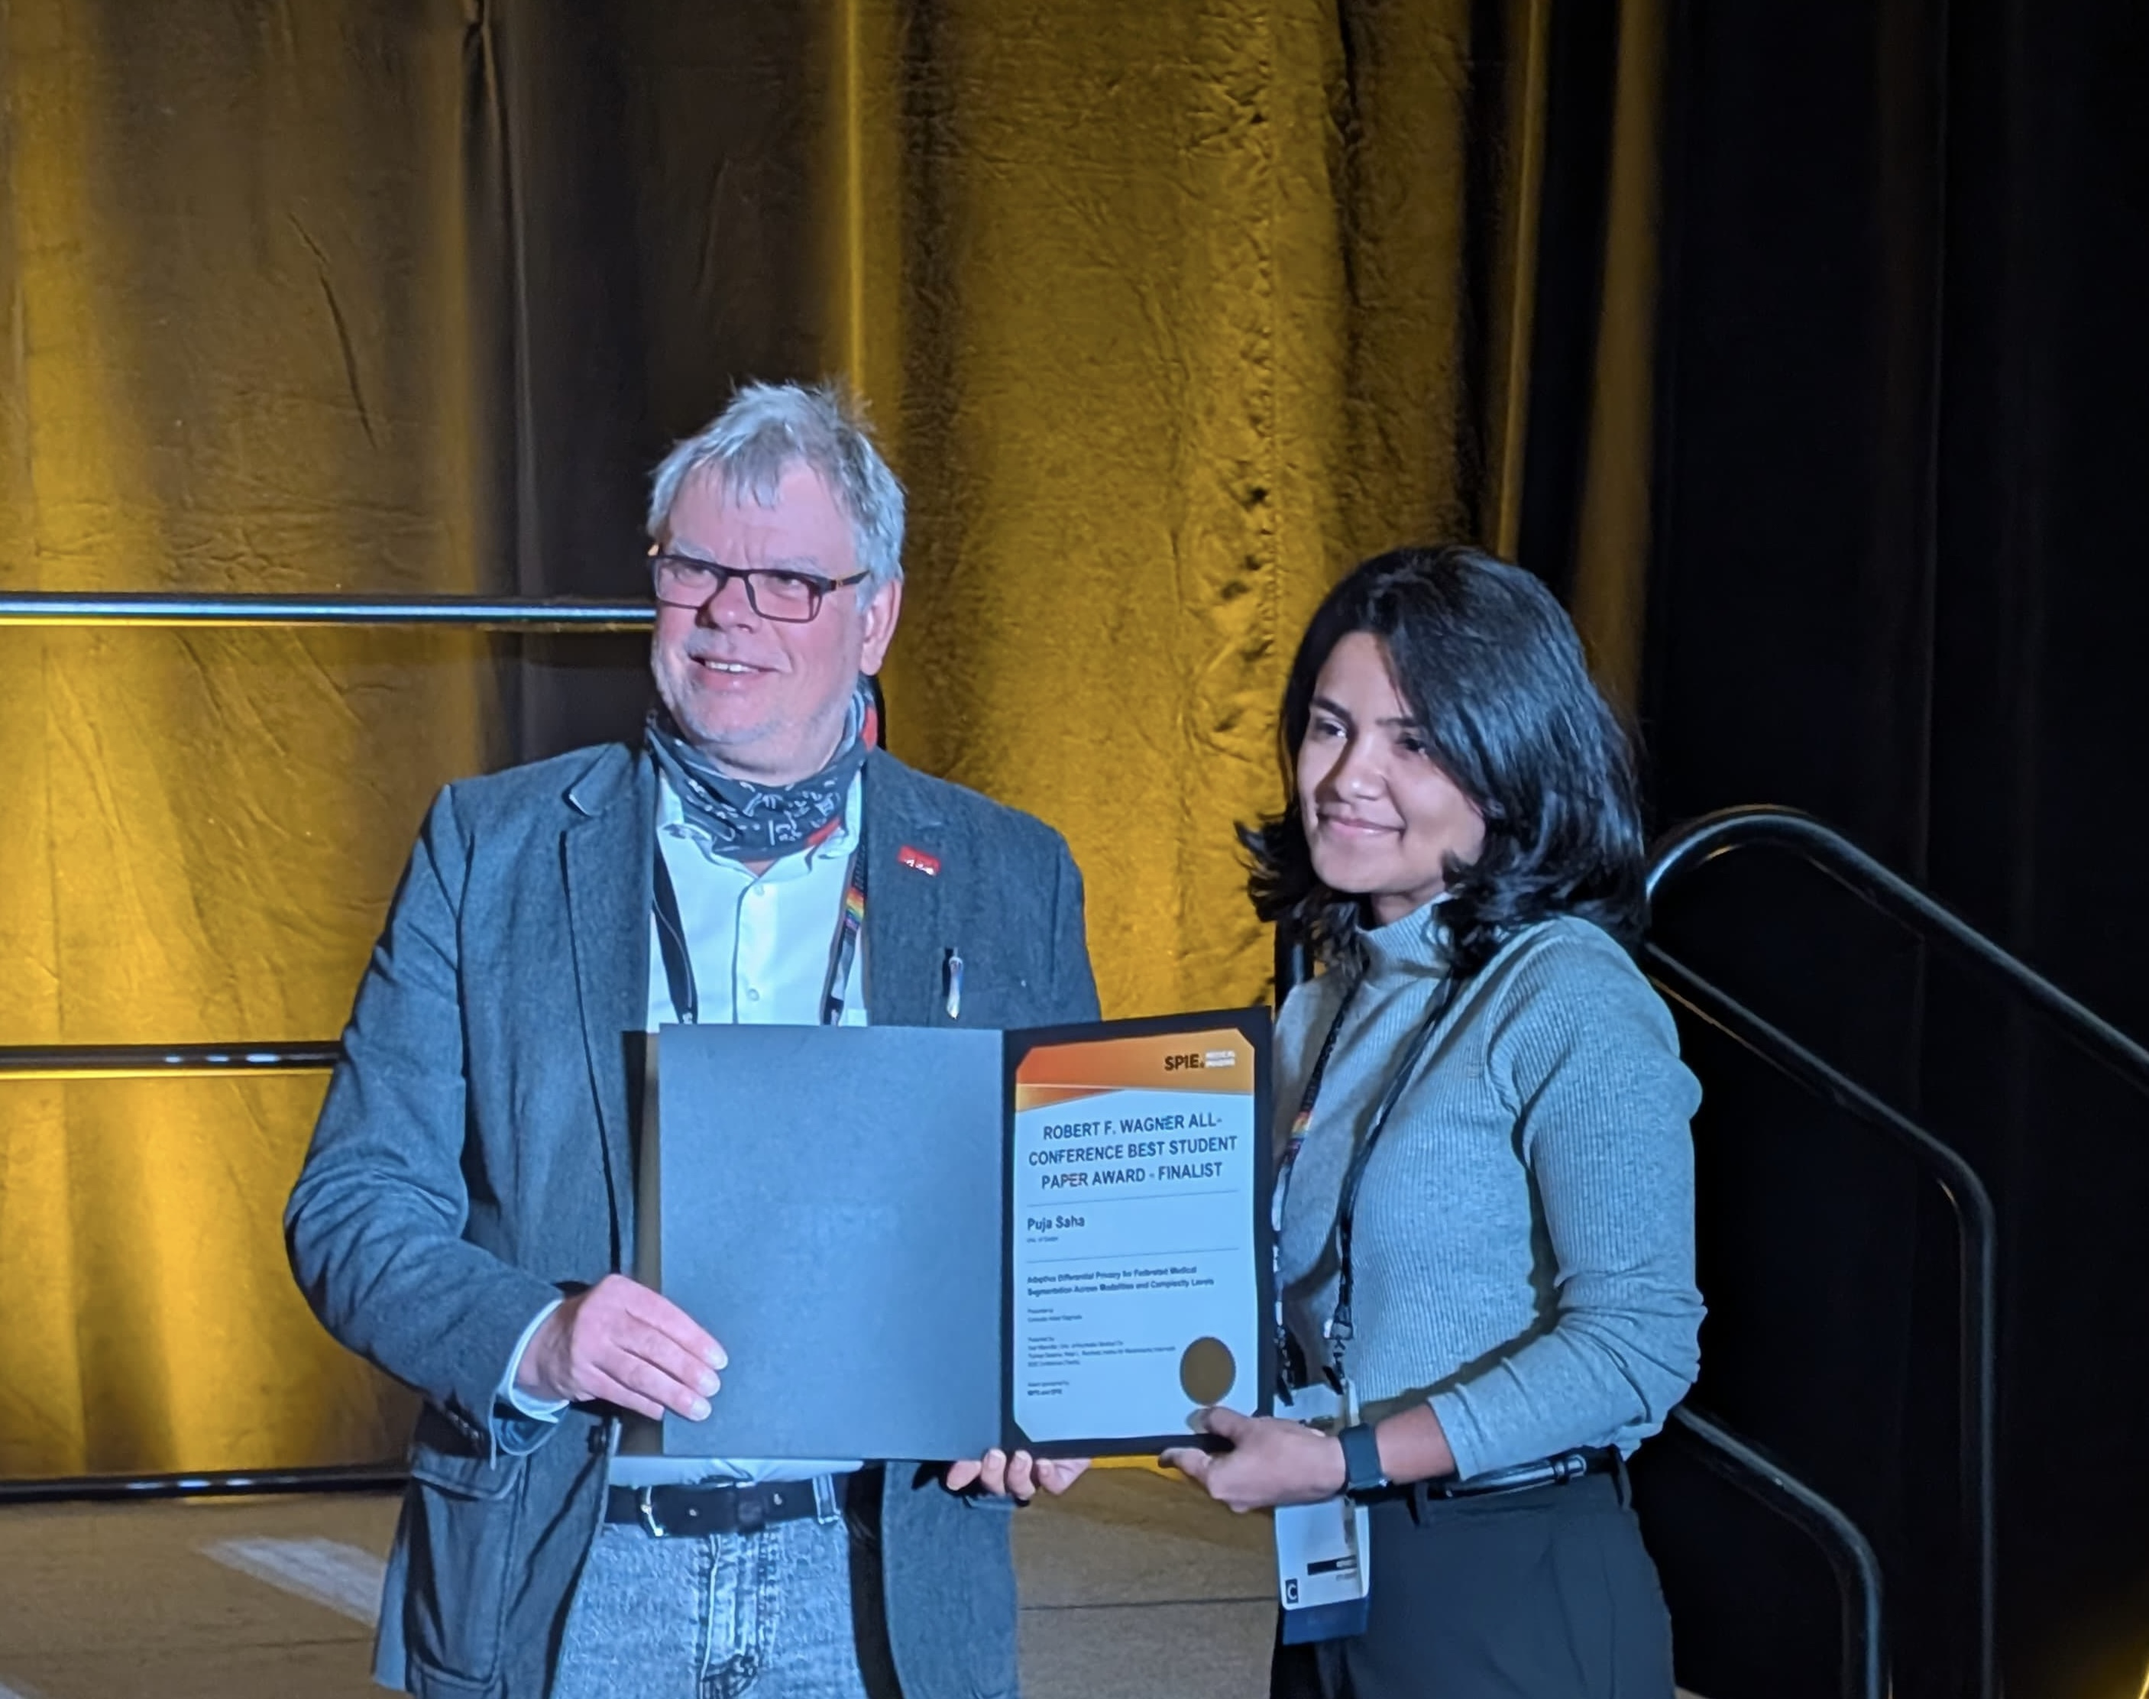
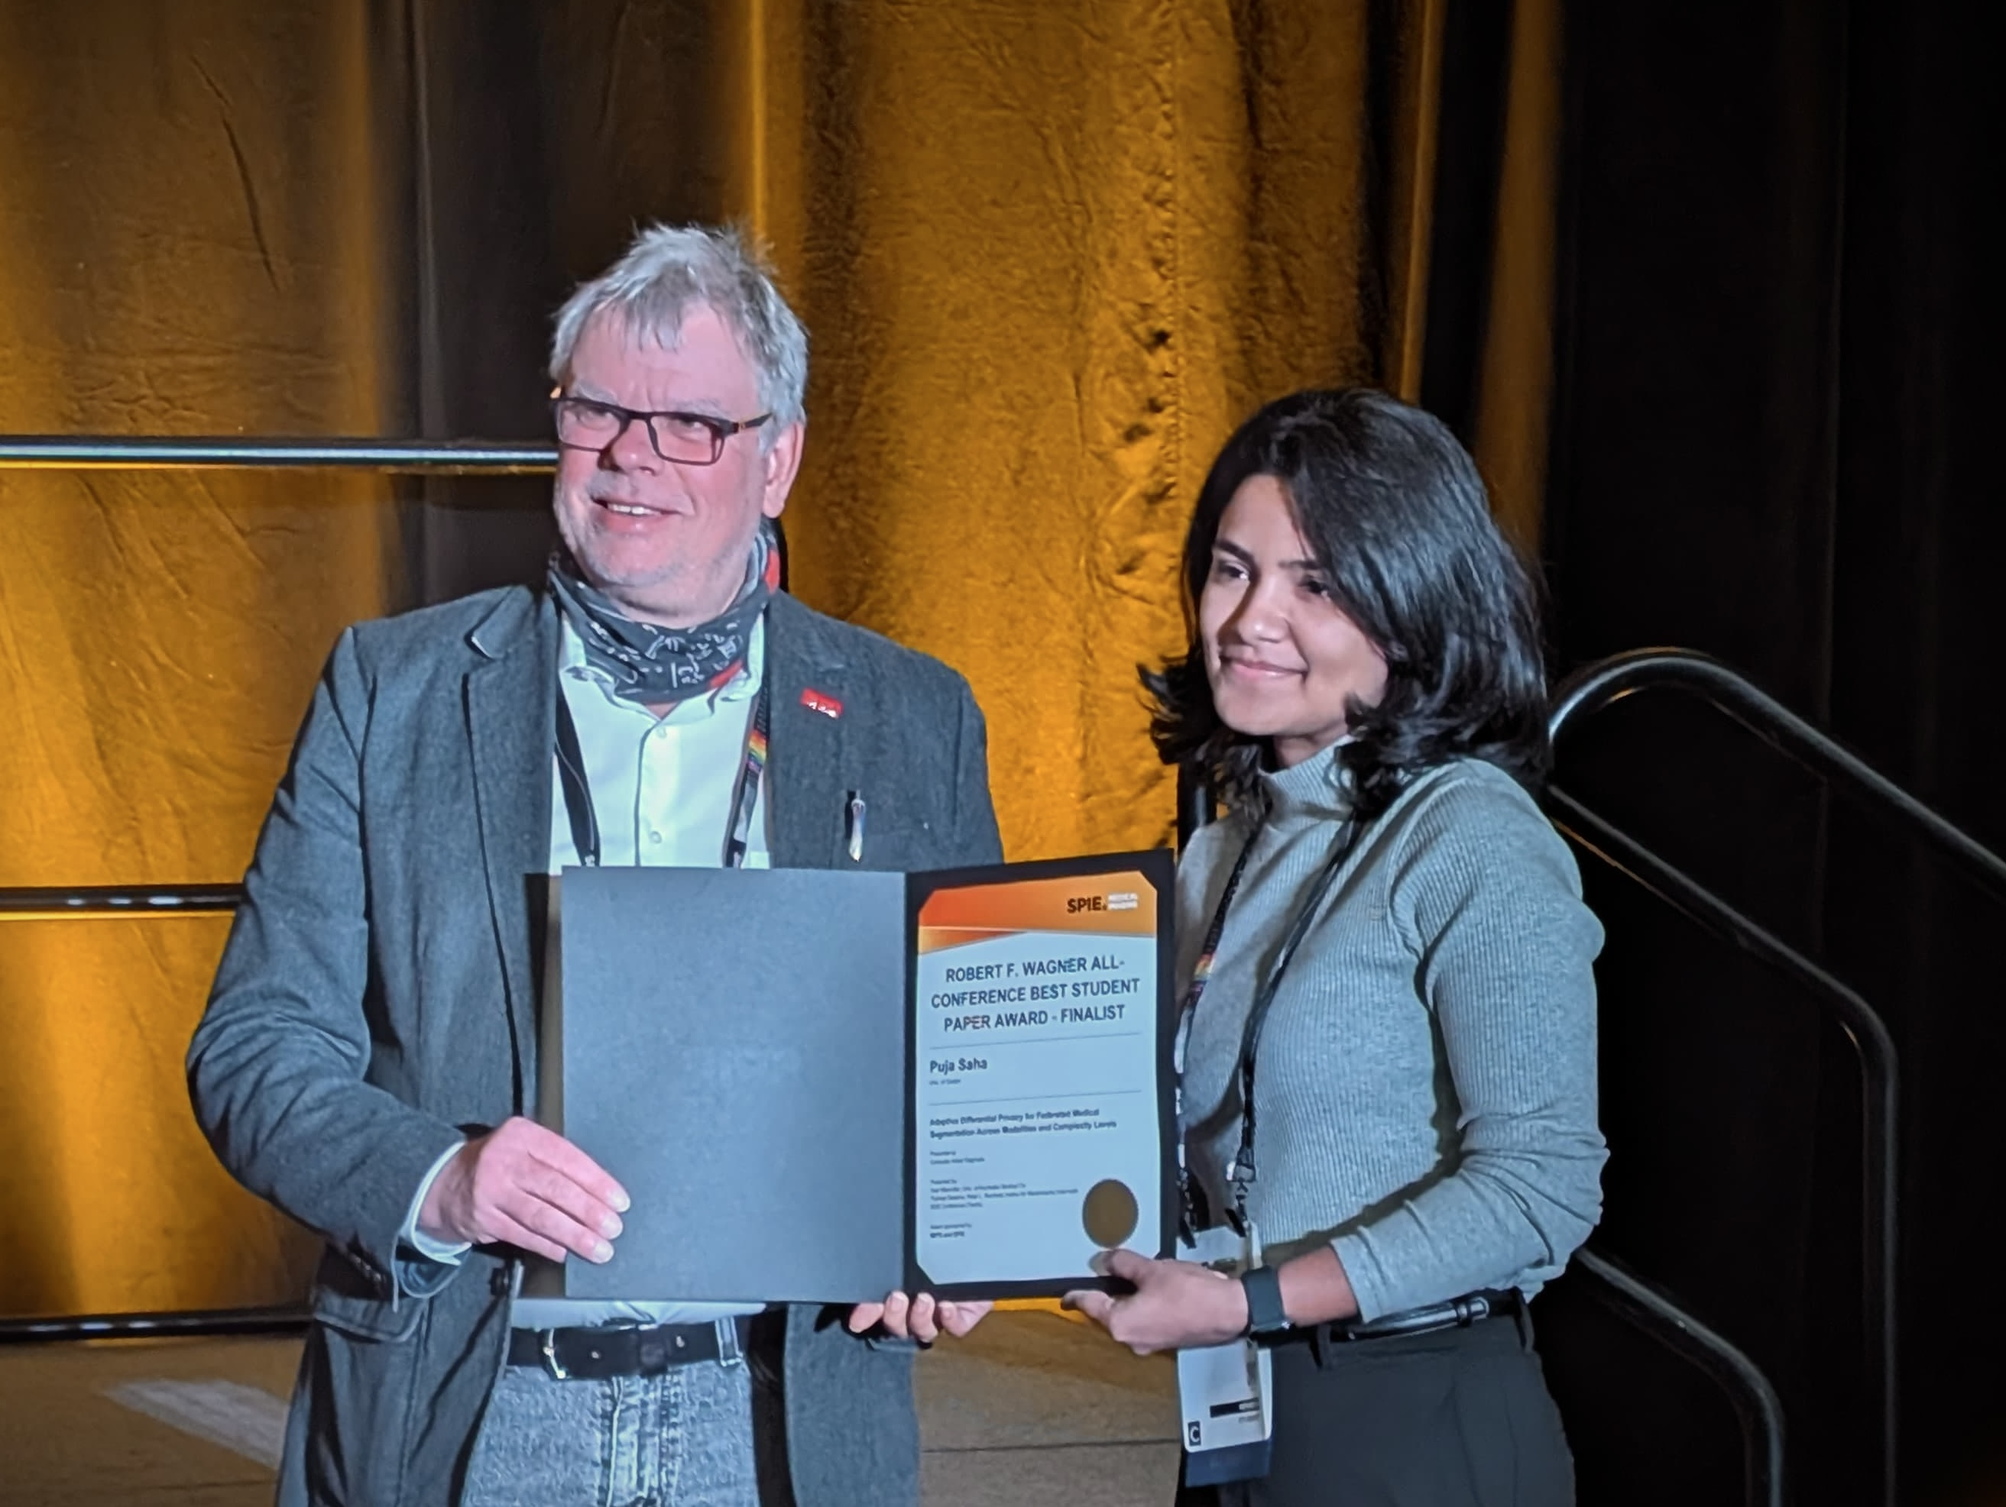
updates and fix

diff --git a/script.js b/script.js
@@ -5,17 +5,22 @@ document.addEventListener('DOMContentLoaded', () => {
     const modalImage = document.getElementById('image-modal-content');
     const modalCaption = document.getElementById('image-modal-caption');
     const closeButton = document.querySelector('.image-modal-close');
-    const galleryImages = document.querySelectorAll('.gallery-item img');
+    const galleryGrid = document.querySelector('.gallery-grid');
 
-    if (!modal || !modalImage || !modalCaption || !closeButton || galleryImages.length === 0) {
+    if (!modal || !modalImage || !modalCaption || !closeButton || !galleryGrid) {
         return;
     }
 
     const openModal = (imageElement) => {
-        const captionElement = imageElement.closest('.gallery-item')?.querySelector('h4');
+        const galleryItem = imageElement.closest('.gallery-item');
+        const titleElement = galleryItem?.querySelector('h4');
+        const descriptionElement = galleryItem?.querySelector('p');
         modalImage.src = imageElement.src;
         modalImage.alt = imageElement.alt || 'Expanded gallery image';
-        modalCaption.textContent = captionElement ? captionElement.textContent : '';
+        modalCaption.textContent = [
+            titleElement?.textContent?.trim(),
+            descriptionElement?.textContent?.trim(),
+        ].filter(Boolean).join(' - ');
         modal.classList.add('open');
         modal.setAttribute('aria-hidden', 'false');
         document.body.style.overflow = 'hidden';
@@ -29,8 +34,14 @@ document.addEventListener('DOMContentLoaded', () => {
         document.body.style.overflow = '';
     };
 
-    galleryImages.forEach((imageElement) => {
-        imageElement.addEventListener('click', () => openModal(imageElement));
+    galleryGrid.addEventListener('click', (event) => {
+        const imageElement = event.target.closest('.gallery-item img');
+
+        if (!imageElement) {
+            return;
+        }
+
+        openModal(imageElement);
     });
 
     closeButton.addEventListener('click', closeModal);

diff --git a/index.html b/index.html
@@ -52,14 +52,14 @@
                     <p>Awarded at SPIE Medical Imaging 2026 for outstanding contributions to the development and application of computer-aided detection and diagnosis systems in medical imaging.</p>
                 </div>
                 <div class="gallery-item">
-                    <img src="images/RFW.jpg" alt="SPIE conference moment 1">
+                    <img src="images/rfw.jpg" alt="SPIE conference moment 1">
                     <h4>Robert F. Wagner All-Conference Best Paper Award: FINALIST</h4>
                     <p>Awarded at SPIE Medical Imaging 2026 as one of the highest-scoring papers across nine conferences for technical excellence, innovation, and impact in medical imaging.</p>
                 </div>
                 <div class="gallery-item">
-                    <img src="images/chairs.jpg" alt="SPIE conference moment 3">
+                    <img src="images/moments.jpg" alt="SPIE conference moment 3">
                     <h4>SPIE Moments</h4>
-                    <p>A memorable moment with conference chairs and fellow award recipients at SPIE Medical Imaging 2026 in Vancouver, Canada.</p>
+                    <p>A collage of highlights from SPIE Medical Imaging 2026, featuring the poster presentation, best paper awards, and moments with conference chairs and fellow award recipients in Vancouver, Canada.</p>
                 </div>
                 <div class="gallery-item">
                     <img src="images/best_paper_award.jpeg" alt="5th Best Paper Award">
